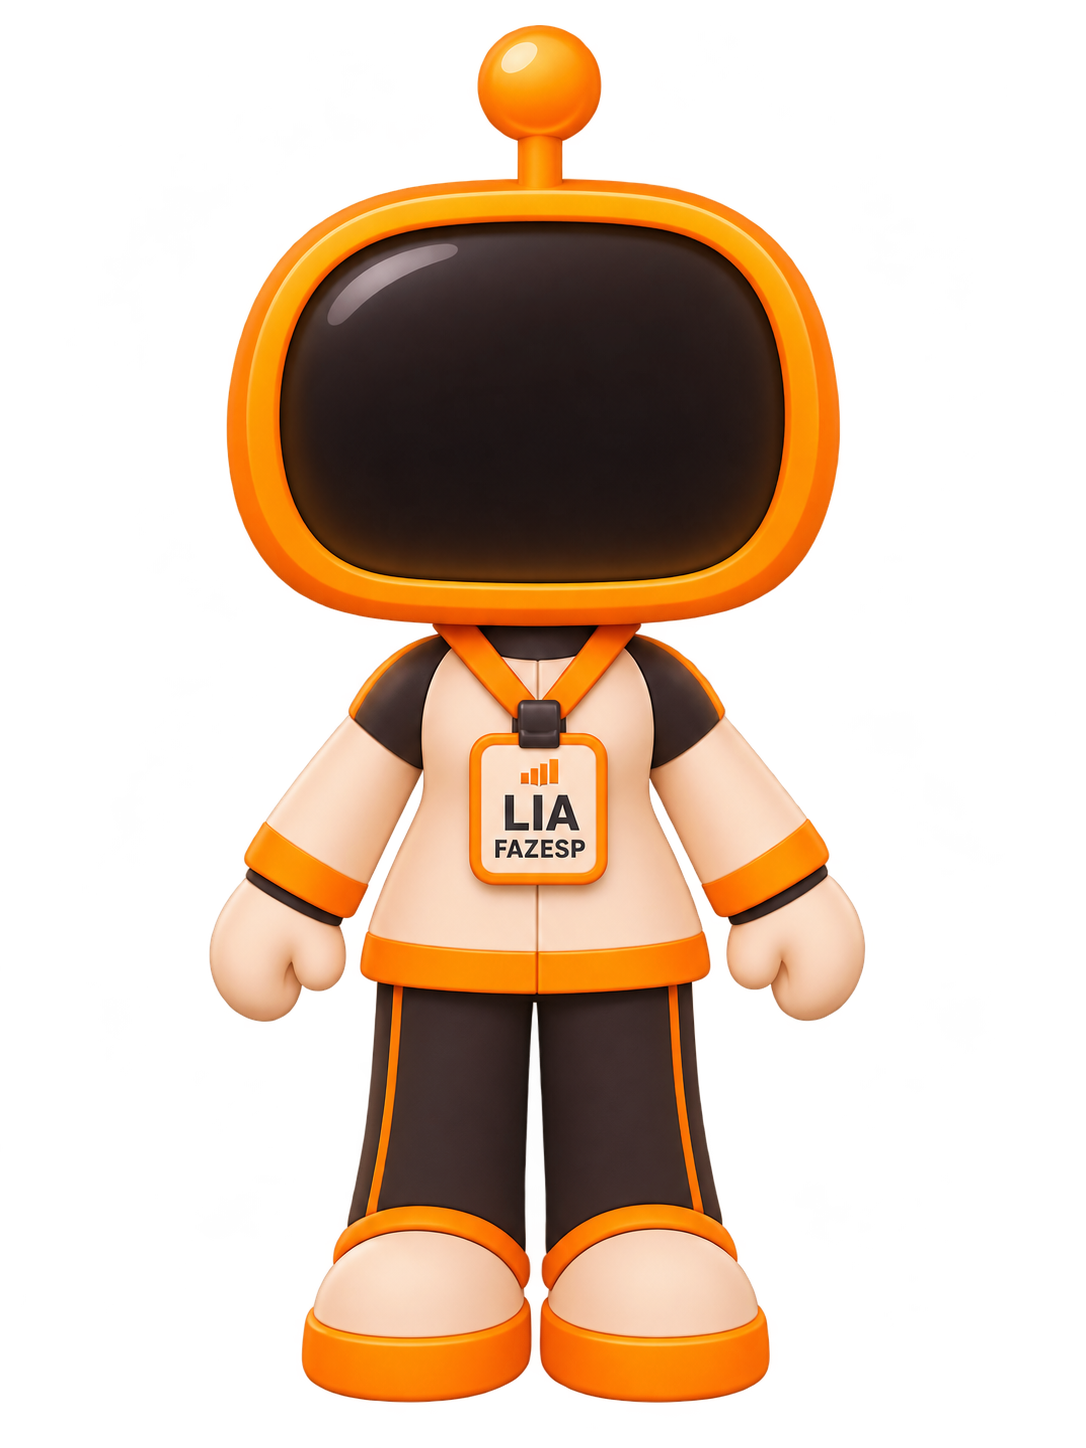
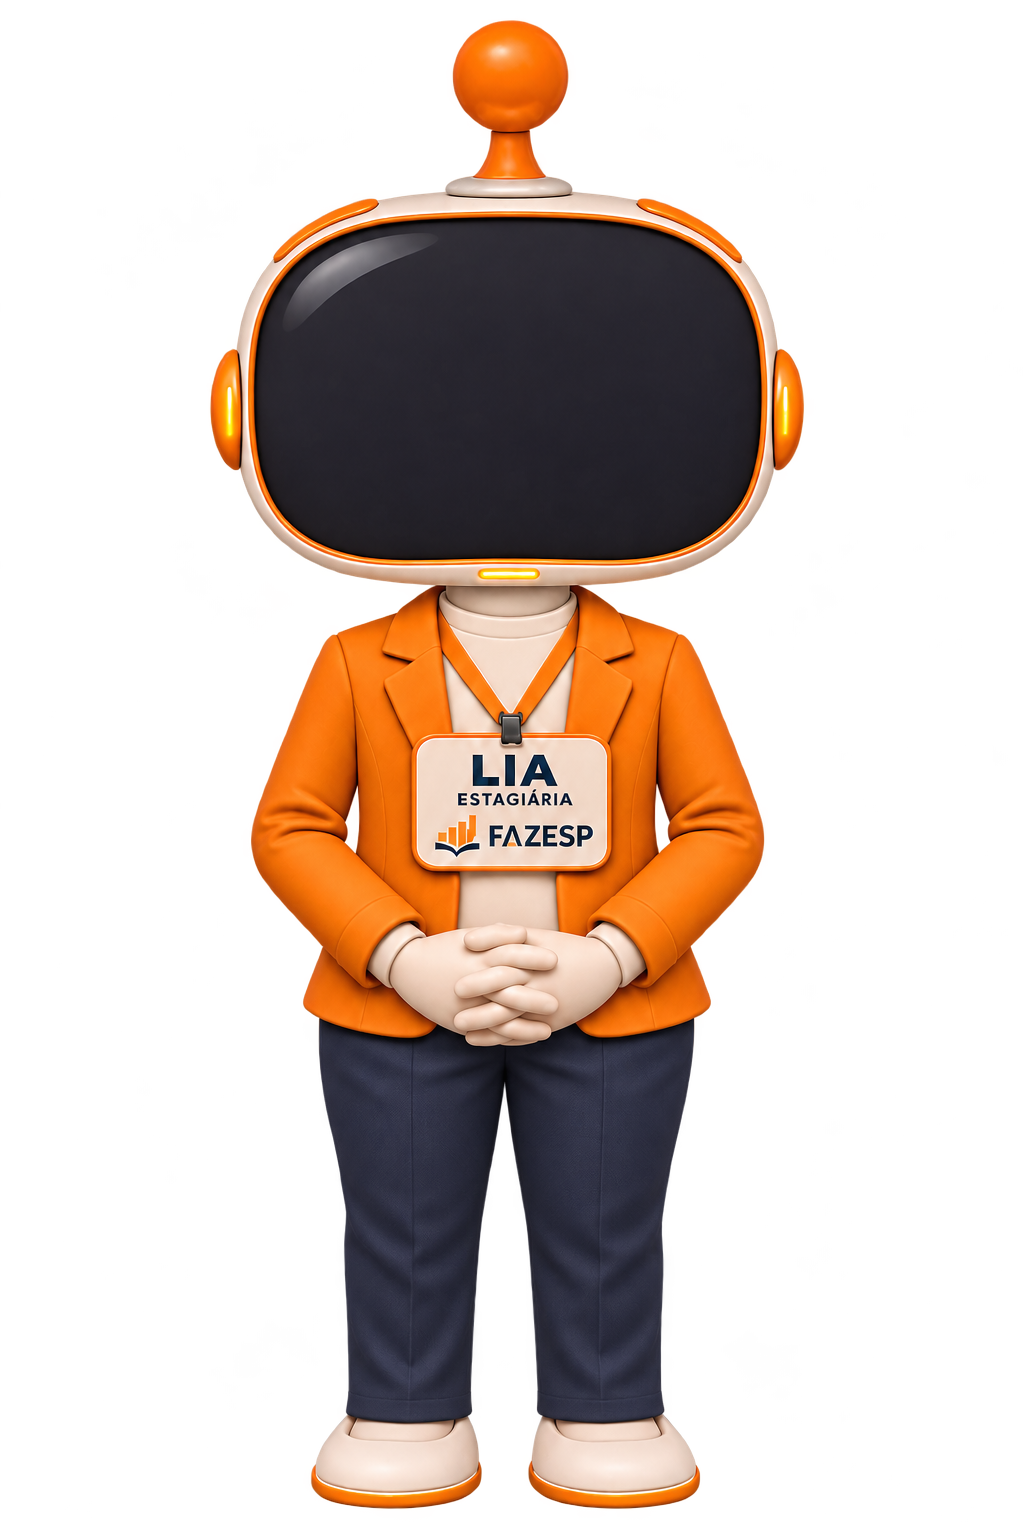
Add files via upload

Changed region(s): [[0.1875, 0.0, 0.8125, 0.9945]]

diff --git a/index.html b/index.html
@@ -633,8 +633,8 @@ body{overflow-x:hidden}
 .robot.robot-with-body,
 .tv .robot.robot-with-body{
   display:block!important;position:relative!important;
-  width:min(345px,31vw,38vh)!important;height:auto!important;
-  aspect-ratio:1086 / 1448!important;
+  width:min(330px,27vw,50vh)!important;height:auto!important;
+  aspect-ratio:1024 / 1536!important;
   margin:7px auto 10px!important;
   filter:drop-shadow(0 14px 33px rgba(248,124,25,.19))!important;
   transform:none!important;
@@ -652,7 +652,7 @@ body{overflow-x:hidden}
    mantém o rosto alinhado ao reduzir ou ampliar o personagem. */
 .robot-with-body .face-shell{
   display:flex!important;position:absolute!important;
-  left:25%!important;top:18.5%!important;width:50%!important;height:20.5%!important;
+  left:18.5%!important;top:16.4%!important;width:63.5%!important;height:23.8%!important;
   z-index:4!important;align-items:center!important;justify-content:center!important;
   pointer-events:none!important;transform:none!important;animation:none!important;
 }
@@ -728,9 +728,9 @@ body{overflow-x:hidden}
 .robot-with-body.expression-doubt .eyes{animation:lia62Look 1.45s ease-in-out 1!important}
 @keyframes lia62Look{0%,100%{translate:0 0}40%{translate:6px 0}68%{translate:-3px 0}}
 .robot-with-body.expression-doubt:not(.speaking) .lia-mouth-motion{transform:translate(-50%,-50%) rotate(-7deg)}
-@media(min-width:900px){.tv .robot.robot-with-body{width:min(385px,31vw,39vh)!important}}
-@media(max-width:730px){.robot.robot-with-body,.tv .robot.robot-with-body{width:min(285px,74vw,38vh)!important}}
-@media(max-height:680px){.robot.robot-with-body,.tv .robot.robot-with-body{width:min(245px,34vh)!important}}
+@media(min-width:900px){.tv .robot.robot-with-body{width:min(360px,27vw,50vh)!important}}
+@media(max-width:730px){.robot.robot-with-body,.tv .robot.robot-with-body{width:min(270px,68vw,44vh)!important}}
+@media(max-height:680px){.robot.robot-with-body,.tv .robot.robot-with-body{width:min(230px,36vh)!important}}
 @media(prefers-reduced-motion:reduce){
  .robot-with-body .eye,.robot-with-body .eyes,.robot-with-body .lia-mouth-motion{animation:none!important}
 }
@@ -784,13 +784,13 @@ body{overflow-x:hidden}
 <main class="stage">
[1 lines of base64/hex data omitted]
  <section class="center"><div class="robot robot-with-body" id="robot" role="img" aria-label="LIA, robô virtual da FAZESP">
-  <img class="robot-body" src="lia-corpo.png" alt="" draggable="false" width="1086" height="1448">
+  <img class="robot-body" src="lia-corpo.png" alt="" draggable="false" width="1024" height="1536">
   <div class="face-shell" aria-hidden="true"><div class="face">
     <div class="eyes"><div class="eye"></div><div class="eye"></div></div>
     <div class="mouth"><span class="lia-mouth-motion"></span></div>
     <div class="cheeks"><span></span><span></span></div>
   </div></div>
-</div><div class="hello-label">INTELIGÊNCIA QUE APROXIMA</div><div class="status" id="status">Aguardando sua pergunta</div><span class="tag" id="mode">Pronta para conversar</span><div class="bottom"><div class="subtitle" id="subtitle" aria-live="polite">Como posso ajudar você?</div><div class="lia-test-note">A LIA é uma estagiária novata da FAZESP e ainda está em fase de testes. Por isso, algumas informações podem estar em aprendizado.</div><div class="foot">FAZESP · Escola Fazendária</div><div class="lia-credits">Criado por Gustavo Hugo e Gladstom Alves <span class="lia-version" aria-label="Versão 6.4">· v6.4</span></div></div></section>
+</div><div class="hello-label">INTELIGÊNCIA QUE APROXIMA</div><div class="status" id="status">Aguardando sua pergunta</div><span class="tag" id="mode">Pronta para conversar</span><div class="bottom"><div class="subtitle" id="subtitle" aria-live="polite">Como posso ajudar você?</div><div class="lia-test-note">A LIA é uma estagiária novata da FAZESP e ainda está em fase de testes. Por isso, algumas informações podem estar em aprendizado.</div><div class="foot">FAZESP · Escola Fazendária</div><div class="lia-credits">Criado por Gustavo Hugo e Gladstom Alves <span class="lia-version" aria-label="Versão 6.5">· v6.5</span></div></div></section>
  <aside class="lia-info" id="liaInfo" role="status" aria-live="polite" aria-label="Informação visual de clima ou horário">
  <div class="lia-info-heading" id="liaInfoHeading">INFORMAÇÃO</div>
  <div class="lia-info-art" id="liaInfoArt" aria-hidden="true"></div>
